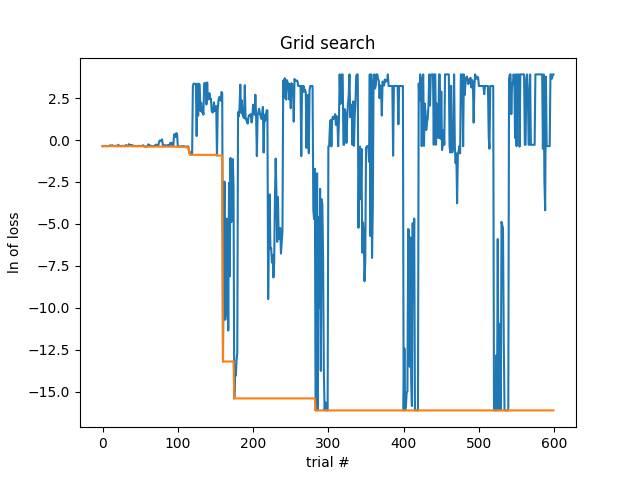
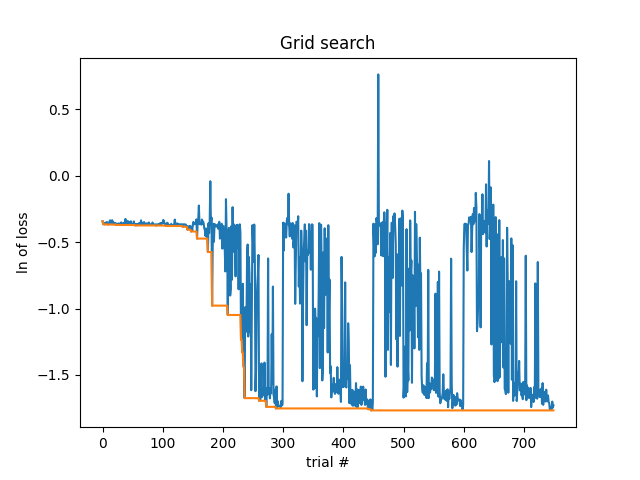
Clean up

diff --git a/optimizer.py b/optimizer.py
@@ -1,14 +1,12 @@
 import itertools
 import math
-import random
 from typing import List
 
-import matplotlib.pyplot as plt
 import numpy as np
 import torch
 import torch.nn as nn
 from skopt import gp_minimize
-from skopt.space import Dimension
+from skopt.space import Dimension, Categorical
 from skopt.utils import use_named_args
 
 from network import Network, Architecture
@@ -17,10 +15,10 @@ from network import Network, Architecture
 class Optimizer:
     expected_params = {'lr', 'optim', 'batch_size', 'architecture', 'activation', 'dropout', 'loss'}
 
-    def __init__(self, data: dict, config: dict, epochs: int, space: List[Dimension]):
+    def __init__(self, space: List[Dimension], data: dict, epochs: int = 50, config: dict = None):
+        self.best_result = None
         self.best_losses = None
         self.losses = None
-        self.best = None
         self.data: torch.Tensor = data['data']
         self.input_dim: int = data['input']
         self.output_dim: int = data['output']
@@ -28,23 +26,24 @@ class Optimizer:
         if self.input_dim + self.output_dim != self.data.shape[1]:
             raise 'Error, data should include inputs and labels'
 
-        if config.keys() != self.expected_params:
+        if {dim.name for dim in self.space} != self.expected_params:
             raise 'Unexpected param configurations'
 
         self.config: dict = config
         self.epochs: int = epochs
-        self.num_hyperparams: int = len(config)
+        self.num_hyperparams: int = len(space)
         self.count = 0
 
     def get_minibatch(self, size=1):
-        return self.data[:size, :self.input_dim], self.data[:size, self.input_dim:]
+        shuffled = self.data[torch.randperm(self.data.shape[0])]
+        return shuffled[:size, :self.input_dim], shuffled[:size, self.input_dim:]
 
-    def run_experiment(self, params):
+    def run_experiment(self, params: dict):
         # this part needs to be adapted to interface with Deneb
         # this method is equivalent to exp.fit
         assert params.keys() == self.expected_params
         self.count += 1
-        if self.count % 5 == 0:
+        if self.count % 10 == 0:
             print(f'Running trial number {self.count}')
 
         lr: float = params['lr']
@@ -52,7 +51,7 @@ class Optimizer:
         batch_size: int = params['batch_size']
         arch: [Architecture] = params['architecture']
         activation = params['activation']
-        lam: float = params['dropout'] if 'dropout' in params.keys() else 0
+        lam: float = params['dropout']
         loss_func = params['loss']()
 
         net = Network(arch=arch, activation=activation, dropout=nn.Dropout(p=lam))
@@ -67,7 +66,7 @@ class Optimizer:
             optim.step()
 
         # Evaluate
-        x, y = self.get_minibatch(4)
+        x, y = self.get_minibatch(self.data.shape[0])
         pred = net(x)
         validate_loss = nn.BCELoss()
         loss = validate_loss(pred, y)
@@ -75,7 +74,7 @@ class Optimizer:
         return loss, net
 
     def grid_search_optimize(self):
-
+        self.reset_metrics()
         axes = []
         for param in self.config.keys():
             data = self.config[param]
@@ -93,115 +92,89 @@ class Optimizer:
         cartesian_product = list(itertools.product(*axes))
         print(f'Grid searching with {len(cartesian_product)} input points')
 
-        losses = []
-        best = (float('inf'), None, None)
-        best_losses = []
-
-        for i, tup in enumerate(cartesian_product):
-            if i % 25 == 0:
-                print(f'starting trial {i}, best loss so far is {best[0]}')
-
+        for tup in cartesian_product:
             # Configure a new set of params at each point
-            params = {}
-            for j in range(self.num_hyperparams):
-                param = list(self.config.keys())[j]
-                choice = tup[j]
-                params[param] = choice
+            params = self.vec2param(tup)
 
             loss, model = self.run_experiment(params)
-            losses.append(math.log(abs(loss.item()) + 1e-7))
-            if loss < best[0]:
-                best = (loss, model, params)
-            best_losses.append(math.log(abs(best[0].item()) + 1e-7))
+            if loss < self.best_result[0]:
+                self.best_result = (loss, model, params)
 
-        plt.figure()
-        plt.title('Grid search')
-        plt.xlabel('trial #')
-        plt.ylabel('ln of loss')
-        plt.plot(losses)
-        plt.plot(best_losses)
-        plt.savefig('grid.png')
-        plt.show()
+            self.losses.append(math.log(loss.item() + 1e-15))
+            self.best_losses.append(math.log(self.best_result[0].item() + 1e-15))
 
-        return best
+        return self.best_result, self.losses, self.best_losses
 
     def random_search_optimize(self, trials):
-        best = (float('inf'), None, None)
-        losses = []
-        best_losses = []
+
+        self.reset_metrics()
 
         print(f'Random searching through {trials} input points')
         for i in range(trials):
-
-            if i % 25 == 0:
-                print(f'starting trial {i}, best loss so far is {best[0]}')
             # configure a set of params from random sample and then run experiment
             params = self.sample_random()
 
             loss, model = self.run_experiment(params)
-            losses.append(math.log(abs(loss.item()) + 1e-7))
-            if loss < best[0]:
-                best = (loss, model, params)
-            best_losses.append(math.log(abs(best[0].item()) + 1e-7))
+            self.losses.append(math.log(loss.item() + 1e-15))
+            if loss < self.best_result[0]:
+                self.best_result = (loss, model, params)
+            self.best_losses.append(math.log(self.best_result[0].item() + 1e-15))
 
-        plt.figure()
-        plt.title('Random search')
-        plt.xlabel('trial #')
-        plt.ylabel('ln of loss')
-        plt.plot(losses)
-        plt.plot(best_losses)
-        plt.savefig('rand.png')
-        plt.show()
+        return self.best_result, self.losses, self.best_losses
 
-        return best
-
-    def sample_random(self):
-        params = {}
-        params2vec = []
-
-        for param in self.config.keys():
-            data = self.config[param]
-            if data['type'] == 'categorical':
-                ndx = random.randint(0, len(data['values']) - 1)
-                choice = data['values'][ndx]
-                params2vec.append(ndx)
-            elif data['type'] == 'int':
-                choice = random.randint(data['min'], data['max'])
-                params2vec.append(choice)
-            elif data['type'] == 'continuous':
-                choice = random.uniform(data['min'], data['max'])
-                params2vec.append(choice)
-            else:
-                raise 'All params must have type of categorical, int or continuous'
-
-            params[param] = choice
-
-        return params, params2vec
-
-    def bayesian_optimize(self):
-        self.count = 0
-        self.best = (float('inf'), None, None)
-        self.losses = []
-        self.best_losses = []
+    def bayesian_optimize(self, trials, initial_pts, acq_func='LCB', acq_optimizer='sampling', n_points=1000, xi=0.005,
+                          kappa=1.5):
+        self.reset_metrics()
+        print(f'Running bayesian search through {trials} points')
 
         @use_named_args(self.space)
         def objective(**params):
             loss, model = self.run_experiment(params)
-            self.losses.append(math.log(abs(loss.item()) + 1e-7))
-            if loss < self.best[0]:
-                self.best = (loss, model, params)
-            self.best_losses.append(math.log(abs(self.best[0].item()) + 1e-7))
+            self.losses.append(math.log(loss.item() + 1e-15))
+            if loss < self.best_result[0]:
+                self.best_result = (loss, model, params)
+            self.best_losses.append(math.log(self.best_result[0].item() + 1e-15))
             return loss.item()
 
-        gp_minimize(objective, self.space, n_calls=50, n_initial_points=20)
+        gp_minimize(objective, self.space, n_calls=trials,
+                    n_initial_points=initial_pts, acq_func=acq_func, acq_optimizer=acq_optimizer, n_points=n_points,
+                    xi=xi, kappa=kappa)
 
-        plt.figure()
-        plt.title('Bayesian search')
-        plt.xlabel('trial #')
-        plt.ylabel('ln of loss')
-        plt.plot(self.losses)
-        plt.plot(self.best_losses)
-        plt.savefig('rand.png')
-        plt.show()
+        return self.best_result, self.losses, self.best_losses
 
-        return self.best
+    def reset_metrics(self):
+        self.best_losses = []
+        self.best_result = (float('inf'), None, None)
+        self.losses = []
+        self.count = 0
+
+    def sample_random(self):
+        params = {}
+
+        for dim in self.space:
+            params[dim.name] = dim.rvs(1)[0]
+
+        return params
+
+    def param2vec(self, param):
+        params2vec = []
+        assert param.keys() == {dim.name for dim in self.space}
+
+        for dim in self.space:
+            if isinstance(dim, Categorical):
+                params2vec.append(dim.categories.index(param[dim.name]))
+            else:
+                params2vec.append(param[dim.name])
+
+        return params2vec
+
+    def vec2param(self, vec):
+        params = {}
+
+        for i, dim in enumerate(self.space):
+            if isinstance(dim, Categorical):
+                params[dim.name] = dim.categories[vec[i]]
+            else:
+                params[dim.name] = vec[i]
+
+        return params

diff --git a/main.py b/main.py
@@ -1,8 +1,10 @@
 import time
 
+import numpy as np
 import torch
 import torch.nn.functional as F
 import torch.optim as opt
+from matplotlib import pyplot as plt
 from skopt.space import Integer, Real, Categorical
 
 from network import Architecture
@@ -11,42 +13,90 @@ from optimizer import Optimizer
 data = {'data': torch.stack((torch.tensor([0, 0, 1], dtype=torch.float),
                              torch.tensor([0, 1, 0], dtype=torch.float),
                              torch.tensor([1, 0, 0], dtype=torch.float),
-                             torch.tensor([1, 1, 1], dtype=torch.float)), dim=0),
+                             torch.tensor([1, 1, 1], dtype=torch.float),
+                             torch.tensor([0.05, 0.05, 0.95], dtype=torch.float),
+                             torch.tensor([0.05, 0.95, 0.05], dtype=torch.float),
+                             torch.tensor([0.95, 0.05, 0.05], dtype=torch.float),
+                             torch.tensor([0.95, 0.95, 0.95], dtype=torch.float),
+                             torch.tensor([0.5, 0.5, 0.5], dtype=torch.float)),
+                            dim=0),
         'input': 2,
         'output': 1}
 
 example_config = {
-    'lr': {'type': 'continuous', 'max': 0.1, 'min': 0.001, 'steps': 5},
+    'lr': {'type': 'continuous', 'max': 0.1, 'min': 10e-4, 'steps': 5},
     'optim': {'type': 'categorical', 'values': [opt.Adam, opt.RMSprop]},
-    'batch_size': {'type': 'int', 'max': 4, 'min': 2, 'steps': 3},
+    'batch_size': {'type': 'int', 'max': 9, 'min': 1, 'steps': 5},
     'architecture': {'type': 'categorical',
-                     'values': [Architecture([10, 8, 6, 4]), Architecture([8, 6, 4]), Architecture([16, 4, 2]),
+                     'values': [Architecture([10, 8, 6, 4]), Architecture([8, 6, 4]),
                                 Architecture([32, 16])]},
-    'dropout': {'type': 'continuous', 'max': 0.75, 'min': 0, 'steps': 5},
-    'activation': {'type': 'categorical', 'values': [F.hardswish, torch.tanh]},
+    'dropout': {'type': 'continuous', 'max': 0.5, 'min': 0, 'steps': 5},
+    'activation': {'type': 'categorical', 'values': [F.hardswish, torch.tanh, torch.sigmoid, F.leaky_relu_]},
     'loss': {'type': 'categorical', 'values': [torch.nn.BCELoss]}
 }
 
-space = [Real(10e-5, 10e0, "log-uniform", name='lr'),
-         Categorical([opt.Adam, opt.RMSprop], name='optim'),
-         Integer(2, 4, name='batch_size'),
-         Categorical([Architecture([10, 8, 6, 4]), Architecture([8, 6, 4]), Architecture([16, 4, 2]),
-                      Architecture([32, 16])], name='architecture'),
+space = [Real(10e-5, 0.1, "log-uniform", name='lr'),
+         Categorical([opt.Adam], name='optim'),
+         Integer(1, 9, name='batch_size'),
+         Categorical([Architecture([10, 8, 6, 4]), Architecture([8, 6, 4]),
+                      Architecture([32, 16]), Architecture([12])], name='architecture'),
          Real(0, 0.75, name='dropout'),
-         Categorical([F.hardswish, torch.tanh], name='activation'),
+         Categorical([F.hardswish], name='activation'),
          Categorical([torch.nn.BCELoss], name='loss')]
 
-optimizer = Optimizer(data, example_config, 50, space)
+optimizer = Optimizer(space, data, epochs=50)
 
-# start = time.time()
-# loss_gr, model_gr, params_gr = optimizer.grid_search_optimize()
-# print(f'Finished grid search in {time.time() - start} seconds')
-#
-# start = time.time()
-# loss_ra, model_ra, params_ra = optimizer.random_search_optimize(50)
-# print(f'Finished random search in {time.time() - start} seconds')
-#
 
-start = time.time()
-print(optimizer.bayesian_optimize())
-print(f'Finished Bayesian search in {time.time() - start} seconds')
+def simple_experiment():
+    start = time.time()
+    (loss_bo, model_bo, params_bo), _, best_losses_bo = optimizer.bayesian_optimize(trials=100, initial_pts=15)
+    print(f'Finished Bayesian search in {time.time() - start} seconds')
+
+    print(f'Optimal params \n {params_bo}')
+
+    x, y = optimizer.get_minibatch(9)
+    print(
+        f'Final validation: \ninput: {x} \noutput: {model_bo(x)} \nlabels: {y} \nloss: {loss_bo}')
+
+
+def bayes_vs_random_average():
+    NUM_EXPERIMENTS = 1
+    NUM_EVALUATIONS = 50
+    results_ra = np.ndarray((NUM_EXPERIMENTS, NUM_EVALUATIONS))
+    for i in range(NUM_EXPERIMENTS):
+        (_, _, p), _, bests = optimizer.random_search_optimize(NUM_EVALUATIONS)
+        results_ra[i, :] = np.clip(bests, float('-inf'), 0)
+
+    plt.figure()
+    plt.title("Best loss over time")
+    plt.xlabel("trial #")
+    plt.ylabel('mean and std of the loss')
+
+    mean_ra = results_ra.mean(axis=0)
+    std_ra = results_ra.std(axis=0)
+    plt.plot(mean_ra, color='blue', label='Random')
+    plt.fill_between(range(NUM_EVALUATIONS), mean_ra + std_ra, mean_ra - std_ra, facecolor='blue', alpha=0.2)
+
+    print(f'random search finished with {mean_ra[-1]} \n params are {p}')
+
+    results_bo = np.ndarray((NUM_EXPERIMENTS, NUM_EVALUATIONS))
+    losses_bo = np.ndarray((NUM_EXPERIMENTS, NUM_EVALUATIONS))
+    for i in range(NUM_EXPERIMENTS):
+        (_, _, p), losses, bests = optimizer.bayesian_optimize(NUM_EVALUATIONS, 10)
+        results_bo[i, :] = np.clip(bests, float('-inf'), 0)
+        losses_bo[i, :] = np.clip(losses, float('-inf'), 0)
+
+    mean_bo = results_bo.mean(axis=0)
+    std_bo = results_bo.std(axis=0)
+    mean_bo_inst = losses_bo.mean(axis=0)
+    plt.plot(mean_bo, color='red', label='Bayes')
+    plt.fill_between(range(NUM_EVALUATIONS), mean_bo + std_bo, mean_bo - std_bo, facecolor='red', alpha=0.2)
+    plt.legend()
+    plt.savefig(f'{NUM_EXPERIMENTS} experiments.png')
+    plt.plot(mean_bo_inst, color='green')
+    plt.show()
+
+    print(f'Bayesian search finished with {mean_bo[-1]} \n params are {p}')
+
+
+simple_experiment()
